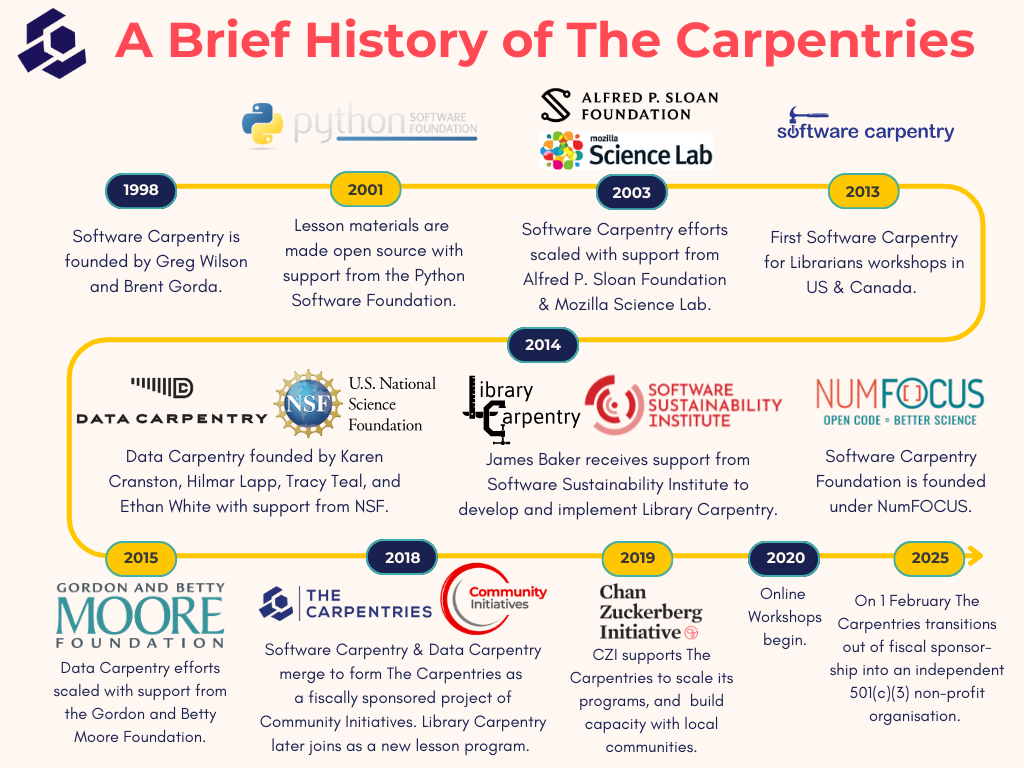
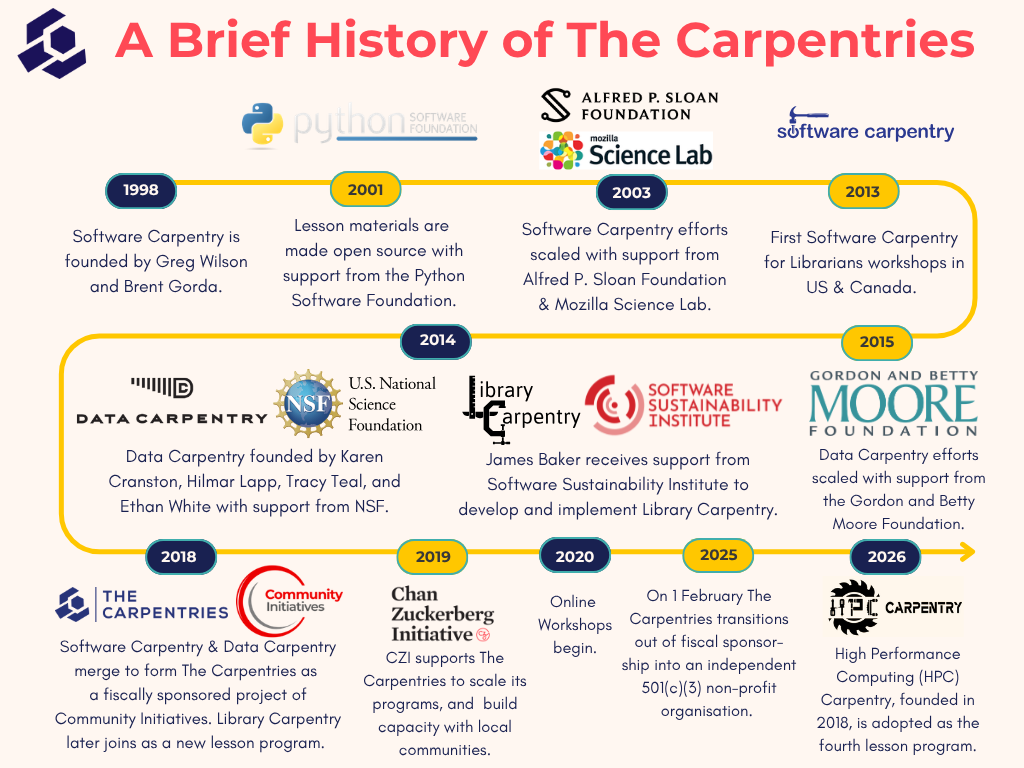
update timeline figure

diff --git a/episodes/15-carpentries.md b/episodes/15-carpentries.md
@@ -85,7 +85,7 @@ but the majority of our impact is achieved through the efforts of volunteer part
 The **global Carpentries community** consists of [Instructors](https://carpentries.org/community/instructors/), [Instructor Trainers](https://carpentries.org/community/instructor-trainers/), [Maintainers](https://carpentries.org/community/maintainers/), [Lesson Developers](https://carpentries.org/community/lesson_developers/), [Institutional Partners](https://carpentries.org/support/partnership/partner-list/), members of various committees, a [governance structure](https://carpentries.org/governance/), and other supporters who participate, synchronously or asynchronously, in building our programs for all to share. At the **local level**, individual
 Carpentries communities may include many participants who are not necessarily connected with or even aware of our global activities, including helpers, learners, faculty sponsors, and others who contribute to keep communities thriving and growing 'on the ground.'
 
-![](fig/The-Carpentries-History-Timeline.png){alt='A graphic depicting the development of The Carpentries. It is titled “A Brief History of The Carpentries” with The Carpentries logo to the left of the title. The graphic is a snaking timeline chart summarising significant transitions in The Carpentries\' history from 1998 to 2025. Not all years are represented. Under each year is a brief summary of the key developments in that year, with logos of the funder organisations that supported that phase of the organisation\'s projects. The dates and accompanying text are as follows: 1998: Software Carpentry is founded by Greg Wilson and Brent Gorda. 2001: Lesson materials are made open source with support from the Python Software Foundation. 2003: Software Carpentry efforts scaled with support from Alfred P. Sloan Foundation & Mozilla Science Lab. 2013: First Software Carpentry for Librarians workshops in US & Canada. 2014: Data Carpentry founded by Karen Cranston, Hilmar Lapp, Tracy Teal, and Ethan White with support from NSF. 2014: James Baker receives support from Software Sustainability Institute to develop and implement Library Carpentry. 2014: Software Carpentry Foundation is founded under NumFOCUS. 2015: Data Carpentry efforts scaled with support from the Gordon and Betty Moore Foundation. 2018: Software Carpentry & Data Carpentry merge to form The Carpentries as a fiscally sponsored project of Community Initiatives. Library Carpentry later joins as a new lesson program. 2019: CZI supports The Carpentries to scale its programs, and build capacity with local communities. 2020: Online Workshops begin. 2025: On 1 February The Carpentries transitions out of fiscal sponsor-ship into an independent 501(c)(3) non-profit organisation.'}
+![](fig/The-Carpentries-History-Timeline.png){alt='A graphic depicting the development of The Carpentries. It is titled “A Brief History of The Carpentries” with The Carpentries logo to the left of the title. The graphic is a snaking timeline chart summarising significant transitions in The Carpentries\' history from 1998 to 2025. Not all years are represented. Under each year is a brief summary of the key developments in that year, with logos of the funder organisations that supported that phase of the organisation\'s projects. The dates and accompanying text are as follows: 1998: Software Carpentry is founded by Greg Wilson and Brent Gorda. 2001: Lesson materials are made open source with support from the Python Software Foundation. 2003: Software Carpentry efforts scaled with support from Alfred P. Sloan Foundation & Mozilla Science Lab. 2013: First Software Carpentry for Librarians workshops in US & Canada. 2014: Data Carpentry founded by Karen Cranston, Hilmar Lapp, Tracy Teal, and Ethan White with support from NSF. 2014: James Baker receives support from Software Sustainability Institute to develop and implement Library Carpentry. 2014: Software Carpentry Foundation is founded under NumFOCUS. 2015: Data Carpentry efforts scaled with support from the Gordon and Betty Moore Foundation. 2018: Software Carpentry & Data Carpentry merge to form The Carpentries as a fiscally sponsored project of Community Initiatives. Library Carpentry later joins as a new lesson program. 2019: CZI supports The Carpentries to scale its programs, and build capacity with local communities. 2020: Online Workshops begin. 2025: On 1 February The Carpentries transitions out of fiscal sponsor-ship into an independent 501(c)(3) non-profit organisation. 2026: High Performance Computing (HPC) Carpentry, founded in 2018, joins as the fourth lesson program.'}
 
 You can learn more about the history and goals of each Lesson Program by reading:
 
